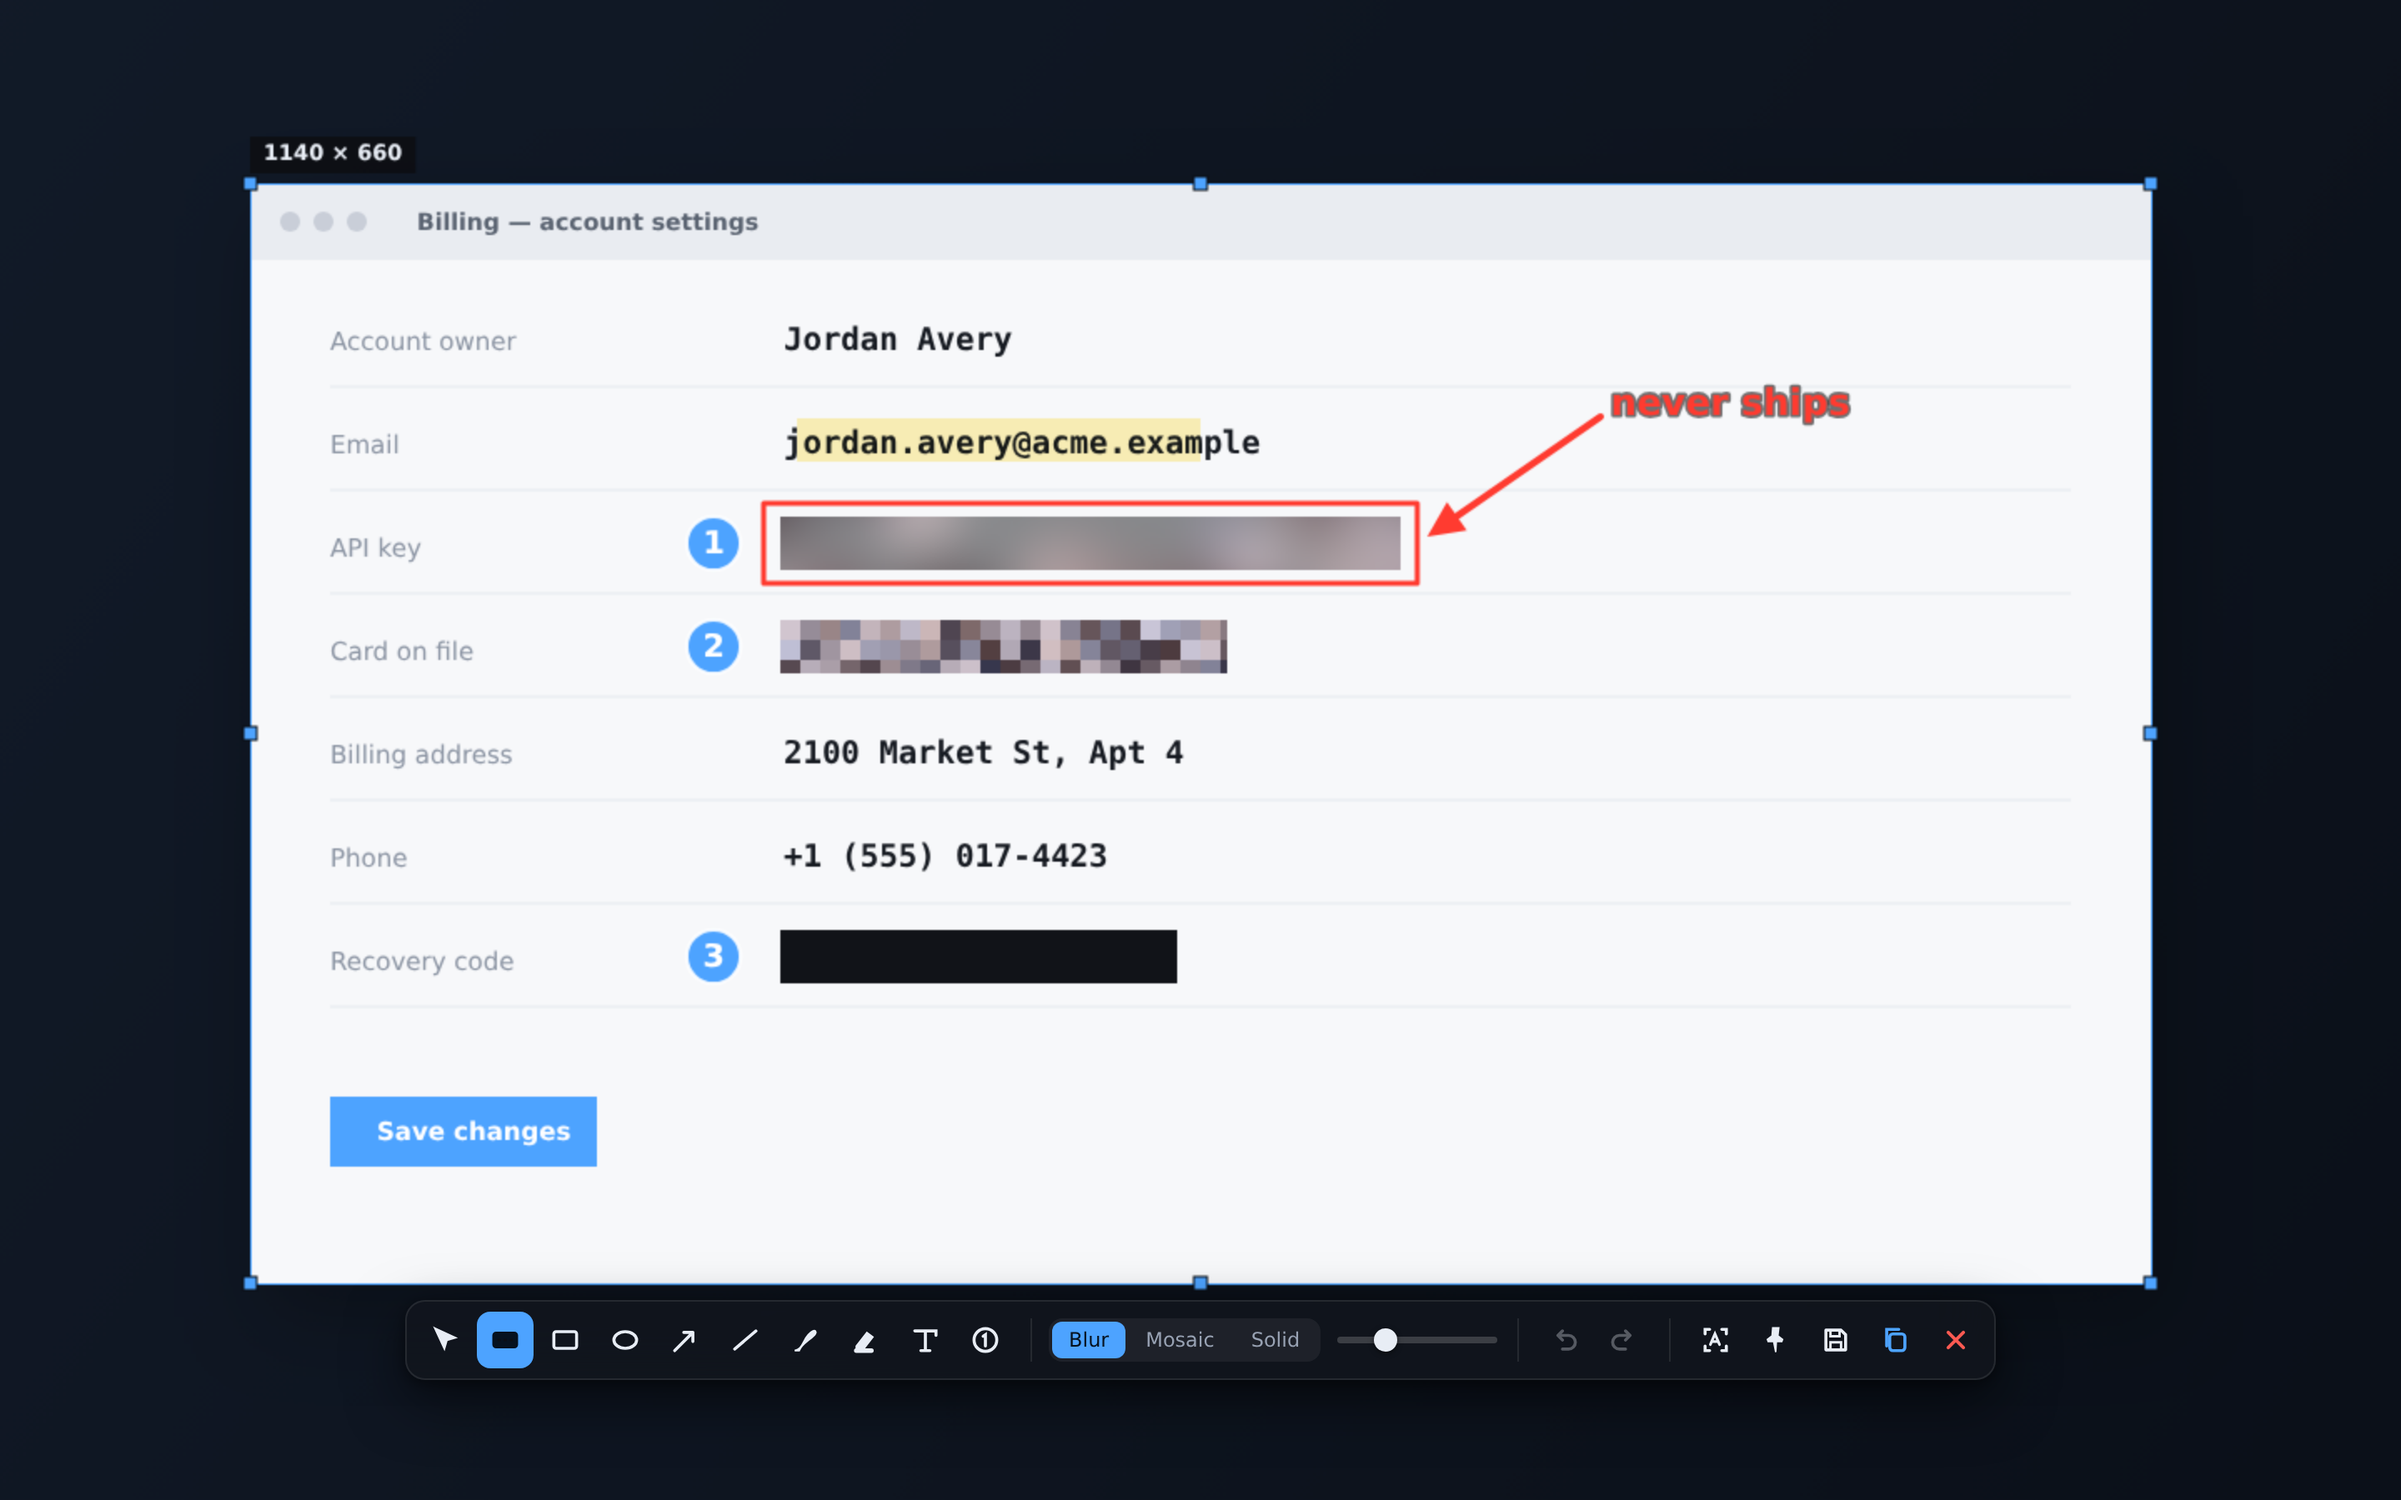
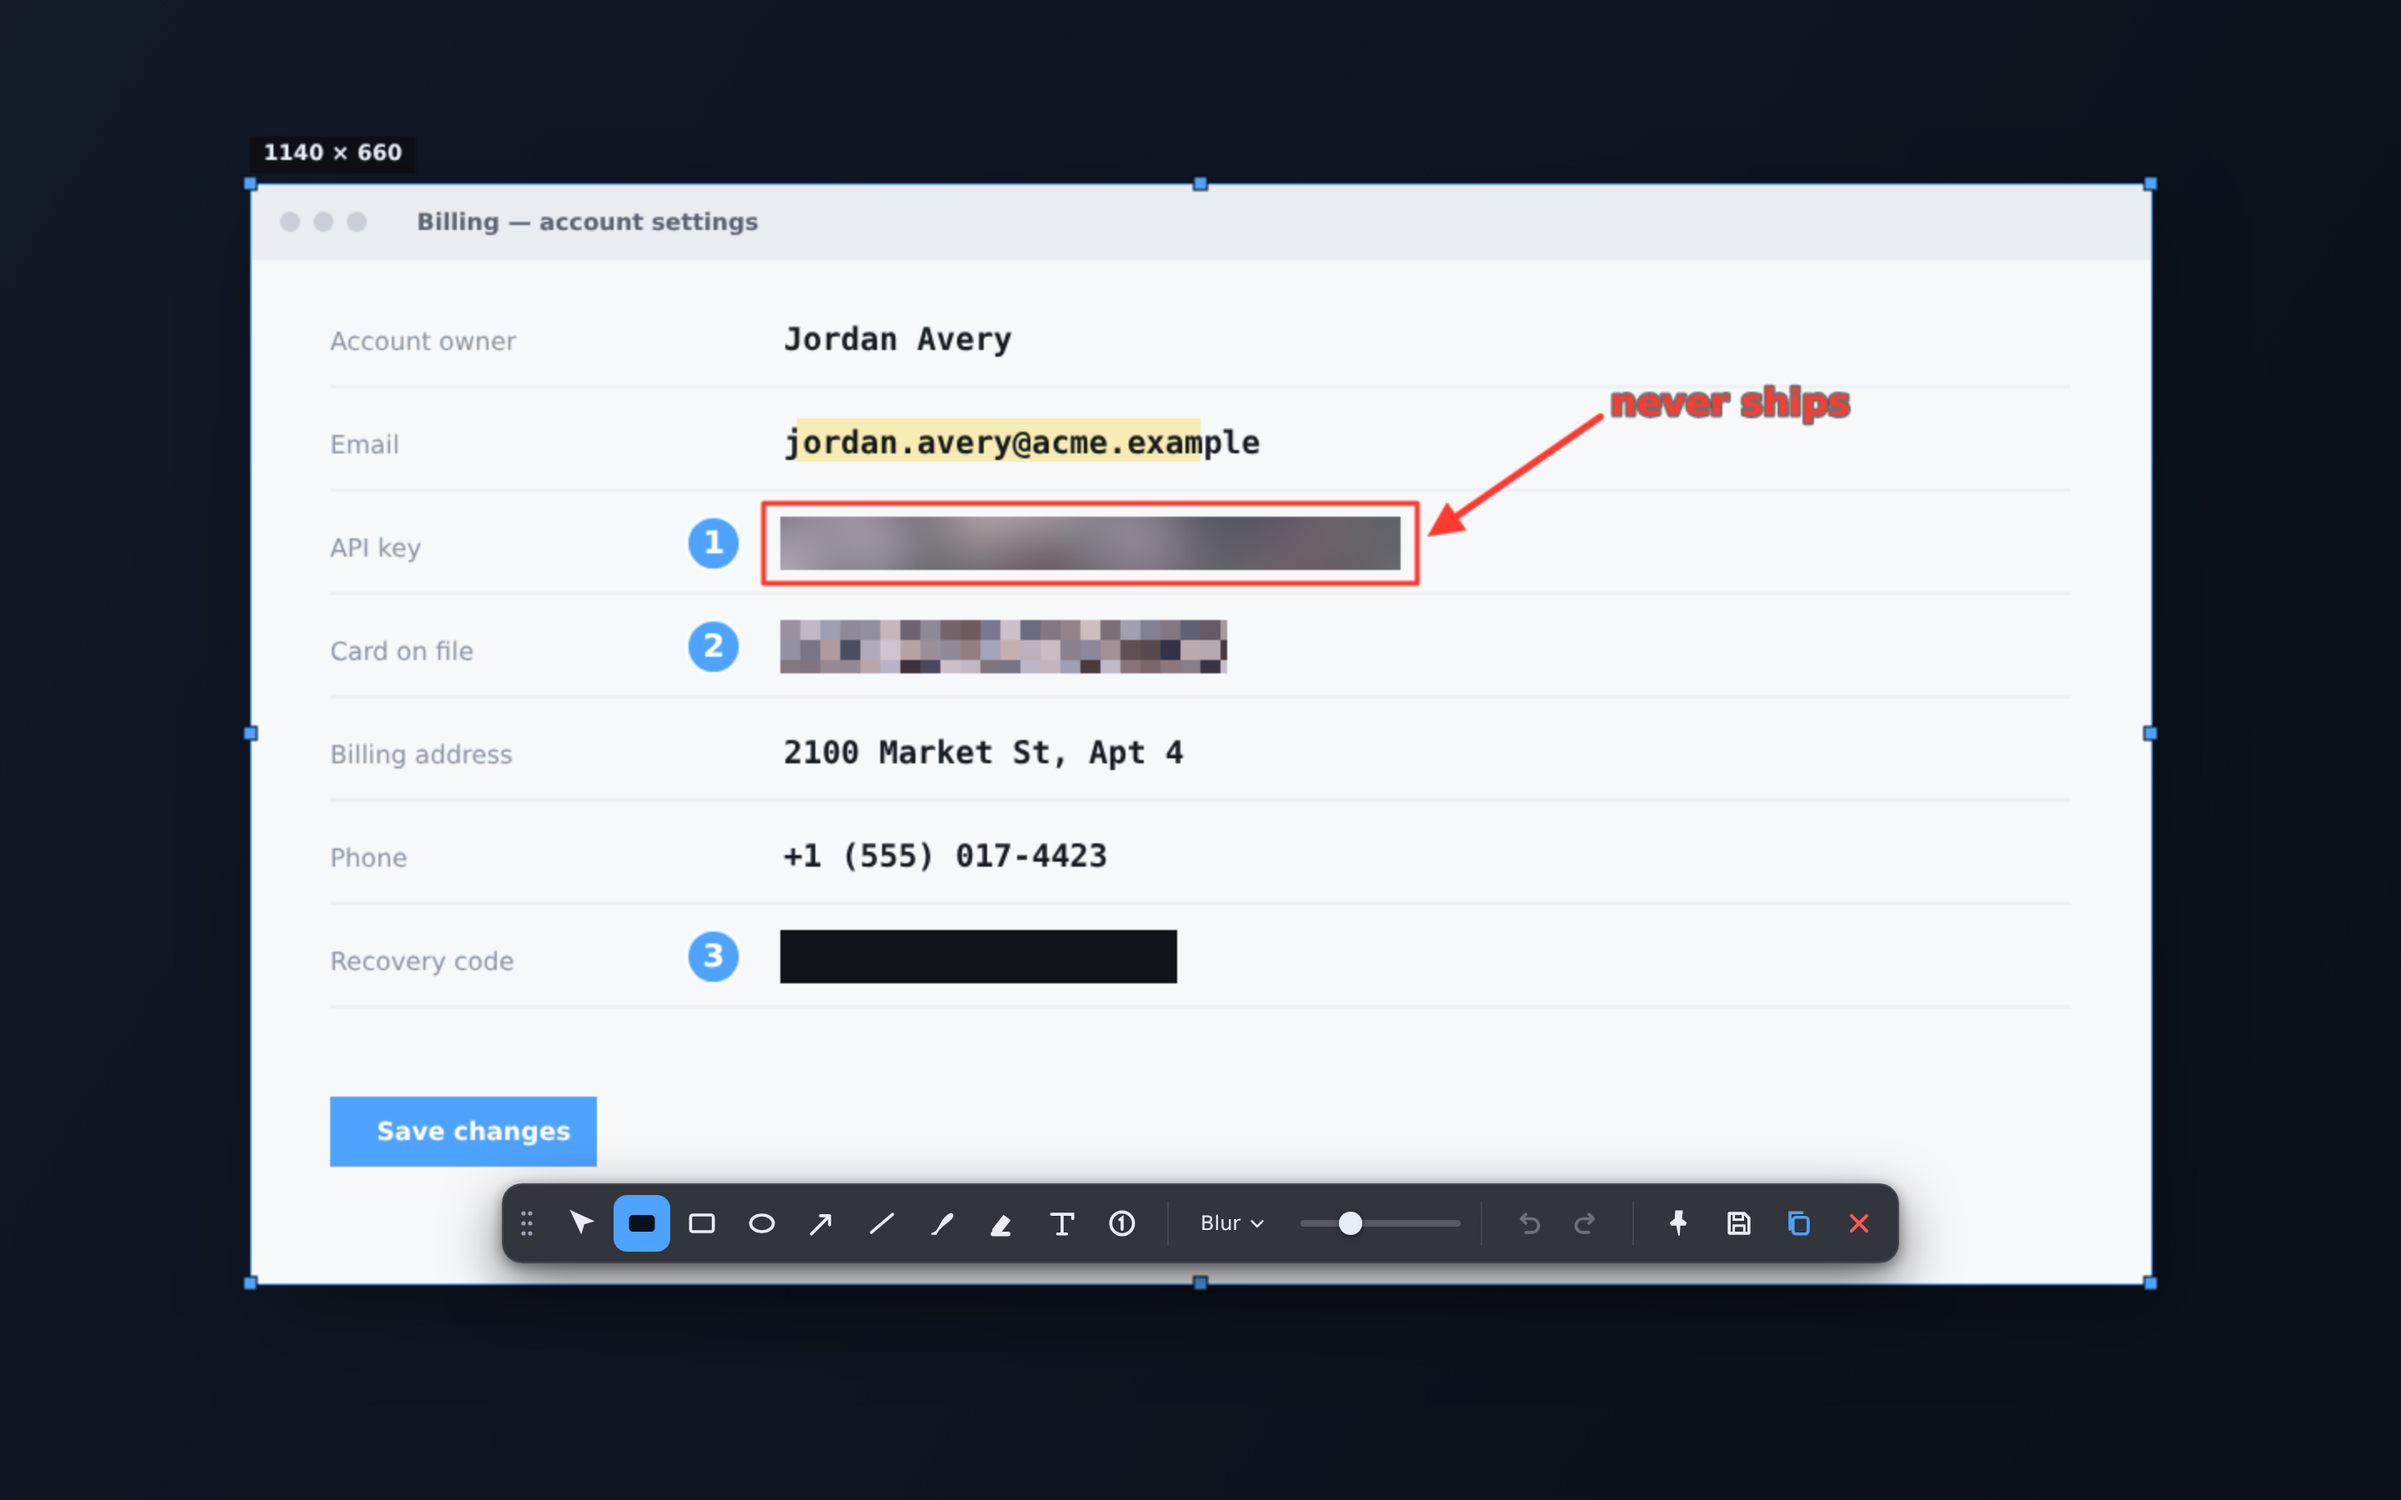
Settings: blue minimalist restyle (drop violet/pink, flatten decoration)
Voidshot's UI is blue, so the settings accent is now #4da3ff, not violet/pink.
Removed the gradient mark, card top-highlights, glow shadows and the glowing
note dot in favour of flat surfaces, 1px hairlines and generous space — a strict
dark-minimal look. Also refreshed docs/screenshot.png with the current toolbar.

Changed region(s): [[0.1875, 0.7778, 0.8125, 0.9333], [0.3125, 0.3422, 0.5938, 0.4667]]

diff --git a/src/styles.css b/src/styles.css
@@ -386,28 +386,24 @@ body.pin:hover .pin-hint {
 /* ===================================================== settings (premium) */
 
 body.settings {
-  --s-bg: #0a0a0f;
-  --s-card: rgba(255, 255, 255, 0.022);
-  --s-card-line: rgba(255, 255, 255, 0.07);
-  --s-field: rgba(255, 255, 255, 0.03);
-  --s-field-line: rgba(255, 255, 255, 0.11);
-  --s-text: #ecebf2;
-  --s-dim: #8a8898;
-  --s-violet: #a78bfa;
-  --s-pink: #ec4899;
+  --s-bg: #08090c;
+  --s-card: rgba(255, 255, 255, 0.018);
+  --s-card-line: rgba(255, 255, 255, 0.06);
+  --s-field: rgba(255, 255, 255, 0.028);
+  --s-field-line: rgba(255, 255, 255, 0.10);
+  --s-text: #e9ebf0;
+  --s-dim: #7e828e;
+  --s-accent: #4da3ff;
 
   min-height: 100vh;
-  padding: 28px 26px 34px;
+  padding: 30px 28px 34px;
   overflow-y: auto;
   color: var(--s-text);
   cursor: default;
   user-select: text;
   -webkit-user-select: text;
   font-family: "Inter", "Segoe UI", system-ui, -apple-system, sans-serif;
-  background:
-    radial-gradient(120% 80% at 85% -10%, rgba(167, 139, 250, 0.12), transparent 55%),
-    radial-gradient(120% 90% at -10% 110%, rgba(236, 72, 153, 0.09), transparent 55%),
-    var(--s-bg);
+  background: var(--s-bg);
 }
 
 .s-shell {
@@ -435,17 +431,17 @@ body.settings {
 .s-mark {
   display: grid;
   place-items: center;
-  width: 42px;
-  height: 42px;
-  border-radius: 12px;
-  color: #fff;
-  background: linear-gradient(150deg, var(--s-violet), var(--s-pink));
-  box-shadow: 0 6px 20px rgba(167, 139, 250, 0.35);
+  width: 40px;
+  height: 40px;
+  border-radius: 11px;
+  color: var(--s-accent);
+  background: rgba(77, 163, 255, 0.10);
+  border: 1px solid rgba(77, 163, 255, 0.26);
 }
 
 .s-mark svg {
-  width: 23px;
-  height: 23px;
+  width: 22px;
+  height: 22px;
 }
 
 .s-brand-t h1 {
@@ -474,18 +470,18 @@ body.settings {
 /* cards */
 .s-card {
   border: 1px solid var(--s-card-line);
-  border-radius: 14px;
-  padding: 6px 16px 14px;
-  background: linear-gradient(180deg, rgba(255, 255, 255, 0.03), rgba(255, 255, 255, 0)) var(--s-card);
+  border-radius: 12px;
+  padding: 6px 18px 15px;
+  background: var(--s-card);
 }
 
 .s-card-h {
-  padding: 12px 0 10px;
-  font-size: 11px;
-  font-weight: 700;
-  letter-spacing: 0.10em;
+  padding: 13px 0 11px;
+  font-size: 10.5px;
+  font-weight: 600;
+  letter-spacing: 0.11em;
   text-transform: uppercase;
-  color: var(--s-violet);
+  color: var(--s-dim);
 }
 
 .s-row {
@@ -551,8 +547,8 @@ body.settings {
 .s-input:focus,
 .s-select:focus {
   outline: none;
-  border-color: var(--s-violet);
-  box-shadow: 0 0 0 3px rgba(167, 139, 250, 0.18);
+  border-color: var(--s-accent);
+  box-shadow: 0 0 0 3px rgba(77, 163, 255, 0.16);
 }
 
 .s-select-wrap {
@@ -614,7 +610,7 @@ body.settings {
   width: 16px;
   height: 16px;
   border-radius: 50%;
-  background: linear-gradient(150deg, var(--s-violet), var(--s-pink));
+  background: var(--s-accent);
   box-shadow: 0 2px 6px rgba(0, 0, 0, 0.5);
 }
 
@@ -633,20 +629,19 @@ body.settings {
   gap: 9px;
   margin-top: 10px;
   padding: 10px 12px;
-  border: 1px solid rgba(167, 139, 250, 0.22);
-  border-radius: 10px;
-  background: rgba(167, 139, 250, 0.06);
+  border: 1px solid var(--s-card-line);
+  border-radius: 9px;
+  background: rgba(255, 255, 255, 0.02);
   font-size: 12px;
-  color: #cfc9e6;
+  color: var(--s-dim);
 }
 
 .s-dot {
   flex: none;
-  width: 7px;
-  height: 7px;
+  width: 6px;
+  height: 6px;
   border-radius: 50%;
-  background: linear-gradient(150deg, var(--s-violet), var(--s-pink));
-  box-shadow: 0 0 8px rgba(167, 139, 250, 0.7);
+  background: var(--s-accent);
 }
 
 kbd {
@@ -716,7 +711,7 @@ kbd {
 }
 
 .s-toggle input:checked ~ .s-sw {
-  background: linear-gradient(150deg, var(--s-violet), var(--s-pink));
+  background: var(--s-accent);
 }
 
 .s-toggle input:checked ~ .s-sw::after {
@@ -724,7 +719,7 @@ kbd {
 }
 
 .s-toggle input:focus-visible ~ .s-sw {
-  box-shadow: 0 0 0 3px rgba(167, 139, 250, 0.25);
+  box-shadow: 0 0 0 3px rgba(77, 163, 255, 0.22);
 }
 
 /* footer */
@@ -768,7 +763,11 @@ kbd {
 
 .s-primary {
   border-color: transparent;
-  color: #fff;
-  background: linear-gradient(150deg, var(--s-violet), var(--s-pink));
-  box-shadow: 0 6px 18px rgba(167, 139, 250, 0.3);
+  color: #06121f;
+  font-weight: 640;
+  background: var(--s-accent);
+}
+
+.s-primary:hover {
+  filter: brightness(1.08);
 }
